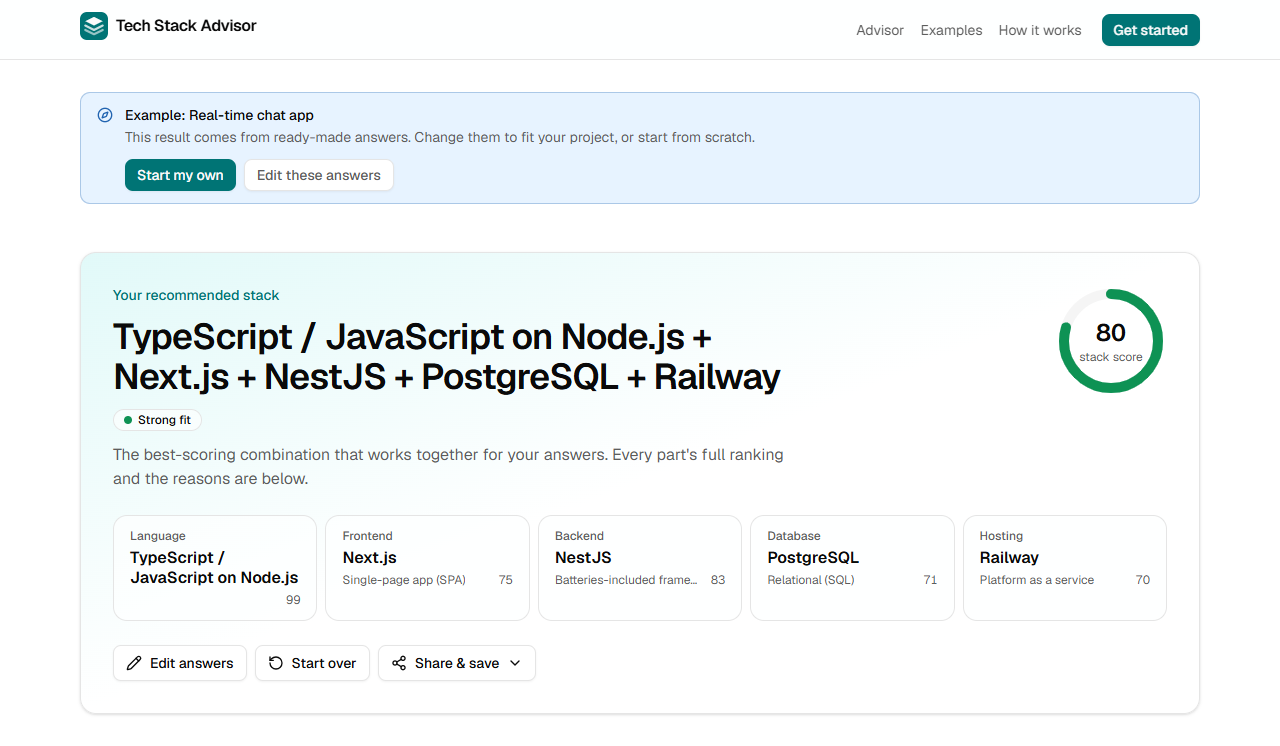
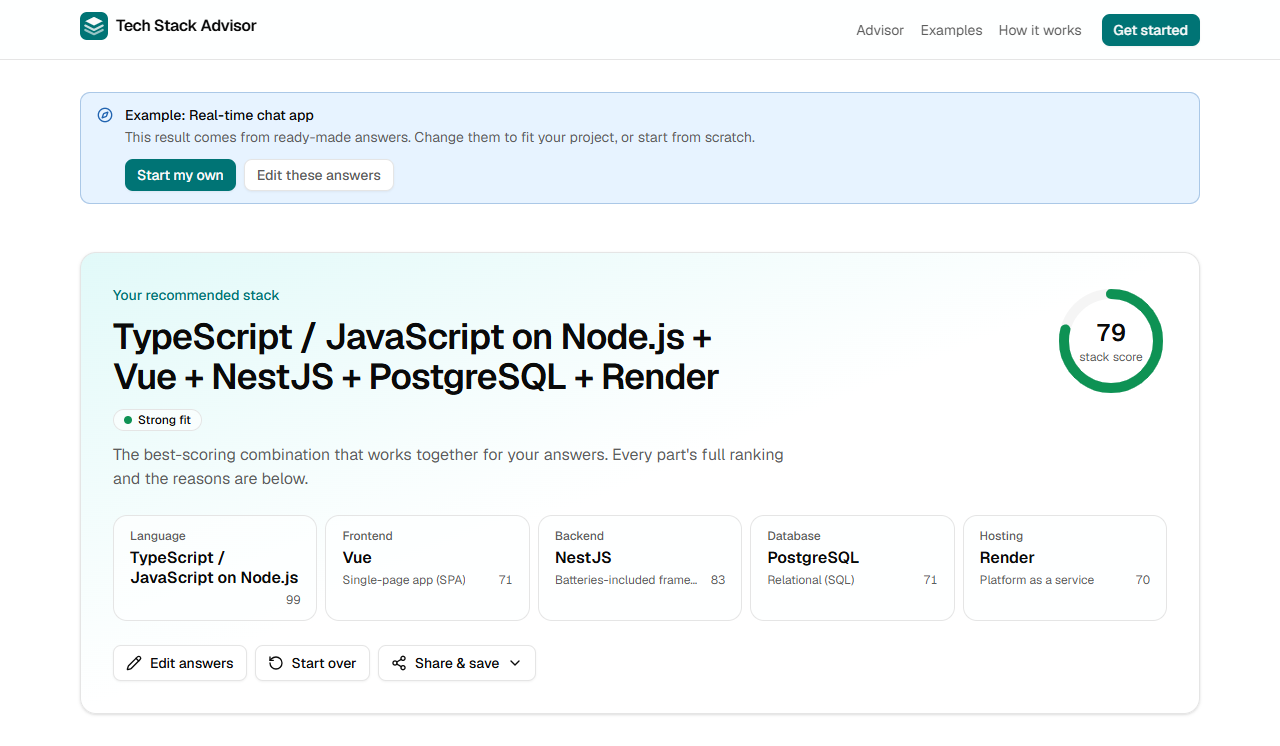
Release 0.5: changelog, new screenshots and link preview, roadmap
App v0.5.0. The README screenshots and the Open Graph image show today's
chat-example stack (Vue + NestJS + PostgreSQL + Render). ROADMAP Next up:
bundles, pair bonuses, glossary, live AI (Q39), remaining rubrics.

diff --git a/src/app/changelog/page.tsx b/src/app/changelog/page.tsx
@@ -9,6 +9,20 @@ export const metadata: Metadata = {
 /** Release notes in plain words. Keep in step with docs/ROADMAP.md and the `version` in package.json. */
 const releases = [
   {
+    version: "0.5",
+    date: "2026-11-09",
+    title: "Fairer scores, live on the web",
+    tag: "Preview",
+    items: [
+      "Live at tech-stack-advisor-one.vercel.app, with the source code public on GitHub.",
+      "Hosting: how far each provider scales now comes from its own documentation, and Render is scored on its paid plans like Railway (its free plan's sleep is a separate rule). The two often tie now, and the result says so. A heavy-load API now gets a cloud provider.",
+      "Frontend: package counts from npm and the frameworks' own docs replace guesses. Next.js is no longer offered as a single-page-app framework (its single-page mode leaves out its server features), so Vue is the usual pick for an app that runs in the browser.",
+      "Languages: no language leads on a score nobody has sourced yet.",
+      "Budget answers name rough amounts ($0, up to about $25, $25–$100, more than $100 a month).",
+      "A new check makes sure no score rests on a vendor's word about itself without a written rule for turning that into a number.",
+    ],
+  },
+  {
     version: "0.4",
     date: "2026-11-09",
     title: "In plain words (AI, optional)",

diff --git a/docs/ROADMAP.md b/docs/ROADMAP.md
@@ -3,18 +3,21 @@
 Keep this current. At the end of every session, update **Next up** so the next (cloud) session can start straight away.
 
 ## Next up
-**Phase 4 is built (session 13, 2026-11-09, app v0.4.0)** with mocked AI providers; the app still works fully with AI off (the default). Phase 3 was done in session 12 (v0.3.0). Next, in this order (one branch + PR each):
-1. **Phase 4: the AI layer** (`docs/AI_INTEGRATION.md`). **Done (session 13, PRs #19–#21, app v0.4.0):** `src/modules/ai/` + `platform/` with mocked providers, `score(input, kb, aiDeltas)` re-runs assembly, boundary rules and the env-name check; `POST /api/explain`; the notes box, opt-out, "In plain words (AI)" panel, mock e2e and `/privacy`. **Left in Phase 4:** one live call per provider once the owner sets `GEMINI_API_KEY`/`GROQ_API_KEY` (Q39), then prompt tuning from real replies.
-2. **Architecture Advisor → `/advisor?style=<id>` link** (Q2): in the sibling repo, once this app has a public URL (Phase 5 deploy). **Done 2026-11-09** in the sibling (architecture-advisor PR #20, v1.5.0): its result ends with "Next step: choose the tools" linking here with the top style. Our side is done; style ids must stay in step with `meta.architectureStyles`.
-3. **Phase 5 launch** (`docs/DEPLOY.md`): README and Open Graph image (PR #22); **live at https://tech-stack-advisor-one.vercel.app** since 2026-11-09, smoke test and e2e passed on the real URL (PR #23). The repo is public since 2026-11-09 (new repo, PDFs left out; the old one is the private `tech-stack-advisor-archive`, Q41). Vercel deploys from the new repo (reconnected 2026-11-09). **Open:** live AI (Q39).
+**Session 14 (2026-11-09, local): owner questions settled, app v0.5.0 live** at https://tech-stack-advisor-one.vercel.app (public repo; the old history is the private `tech-stack-advisor-archive`). The owner asked to apply the recommendations to the open questions: Q32 (PR #3), Q36 (#4), Q34 (#5), Q33 (#6) decided and in the KB; fairness lint + written rubrics (#7); release 0.5 with new screenshots (#8). Details: KB draft §24, OPEN_QUESTIONS "Decided". Next, in this order (one branch + PR each):
+1. **Bundles** (`bundles.json`, schema §10): well-known stacks shown as info ("close to the MERN stack"), never ranked.
+2. **`worksBestWith` pair bonuses** (schema §6): sourced pairs only, +1 to +3, capped at +6 per stack; new variant so old tables replay; check every golden.
+3. **Glossary** (`glossary.json`, schema §10) and, with it, the AI `mentions` from the sibling (AI_INTEGRATION §4).
+4. **Live AI** once the owner adds keys (Q39): one call per provider, then prompt tuning; set `AI_MODE=live` in Vercel.
+5. Remaining rubrics (Q20): a registry-size `ecosystem` rubric for languages (needs a Go module count; Q32 option b), hosting `ops-effort`/`portability`/`learning-curve` (still GK), language `productivity`.
+6. First KB refresh session in about 3 months (Q7).
 
 Done in session 12 (details under Phase 3, steps 5–8): e2e + axe tests and dependency-cruiser (PR #15), share links and "Share & save" (PR #16), locks + `?style=` (PR #17), methodology + about pages and v0.3.0 (PR #18).
 
 Done in session 11 (details below under Phase 3): 1. scaffold + landing (PR #11), 2. the form (PR #12), 3. the result page + pure `recommendation/` module (PR #13), 4. `/changelog` + Markdown export (PR #14).
 
-**Remaining Phase 1 items (not blocking the UI):** `worksBestWith` pair bonuses, bundles and glossary JSON, rubrics (Q20), fairness lint.
+**Remaining Phase 1 items (not blocking the UI):** `worksBestWith` pair bonuses, bundles and glossary JSON, the rest of the rubrics (Q20). Fairness lint done 2026-11-09.
 
-**Waiting for the owner (don't block on it):** Q39 (AI keys for one live call per provider), Q36 (budget amounts), Q32 (language `ecosystem`), Q33 (Next.js as the SPA pick; S15), Q34 (G8's hosting pick, a self-hosting scenario for `vps`, Railway vs Render).
+**Waiting for the owner (don't block on it):** Q39 (AI keys for one live call per provider). All other owner questions are decided.
 
 Session 13 (2026-11-09, local): Phase 4 (PRs #19–#21): AI module + platform with mocked providers, engine `aiDeltas`, `/api/explain`, notes box + opt-out + AI panel + `/privacy`, app v0.4.0. Session 12 (2026-11-09, local): Phase 3 steps 5–8 (e2e + axe + dependency-cruiser, share links, locks + `?style=`, methodology/about), app v0.3.0. Session 11 (2026-11-09, local): Phase 3 steps 1–4 (scaffold + landing, form, result page, changelog + Markdown export), app v0.2.0. Session 10 (2026-11-08, local): **Part 5 (hosting)** merged: 5 types, 11 providers with free tiers read from the vendors' own pages, K1–K10, S17–S21, new relation kinds (conflicts, note, penalty with a dated beta fact), faster assembly (KB draft §19–23). Session 9: Part 4 (frontend).
 

diff --git a/README.md b/README.md
@@ -4,7 +4,7 @@ A free web app that recommends a **tech stack** for a software project: a langua
 
 It is the sibling of **[Architecture Advisor](https://github.com/lochana-dahanayake/architecture-advisor)** ([live](https://architecture-advisor-pink.vercel.app)), which recommends _architecture styles_. Tech Stack Advisor answers the next question: "I picked a style, now which tools should I build it with?" A style chosen there can be carried over with `/advisor?style=<id>`.
 
-**Live:** https://tech-stack-advisor-one.vercel.app (v0.4.0 preview, AI explanations off for now). Hosted on Vercel's free tier; every push to `main` redeploys.
+**Live:** https://tech-stack-advisor-one.vercel.app (v0.5.0 preview, AI explanations off for now). Hosted on Vercel's free tier; every push to `main` redeploys.
 
 |                                                               |                                                                        |
 | ------------------------------------------------------------- | ---------------------------------------------------------------------- |
